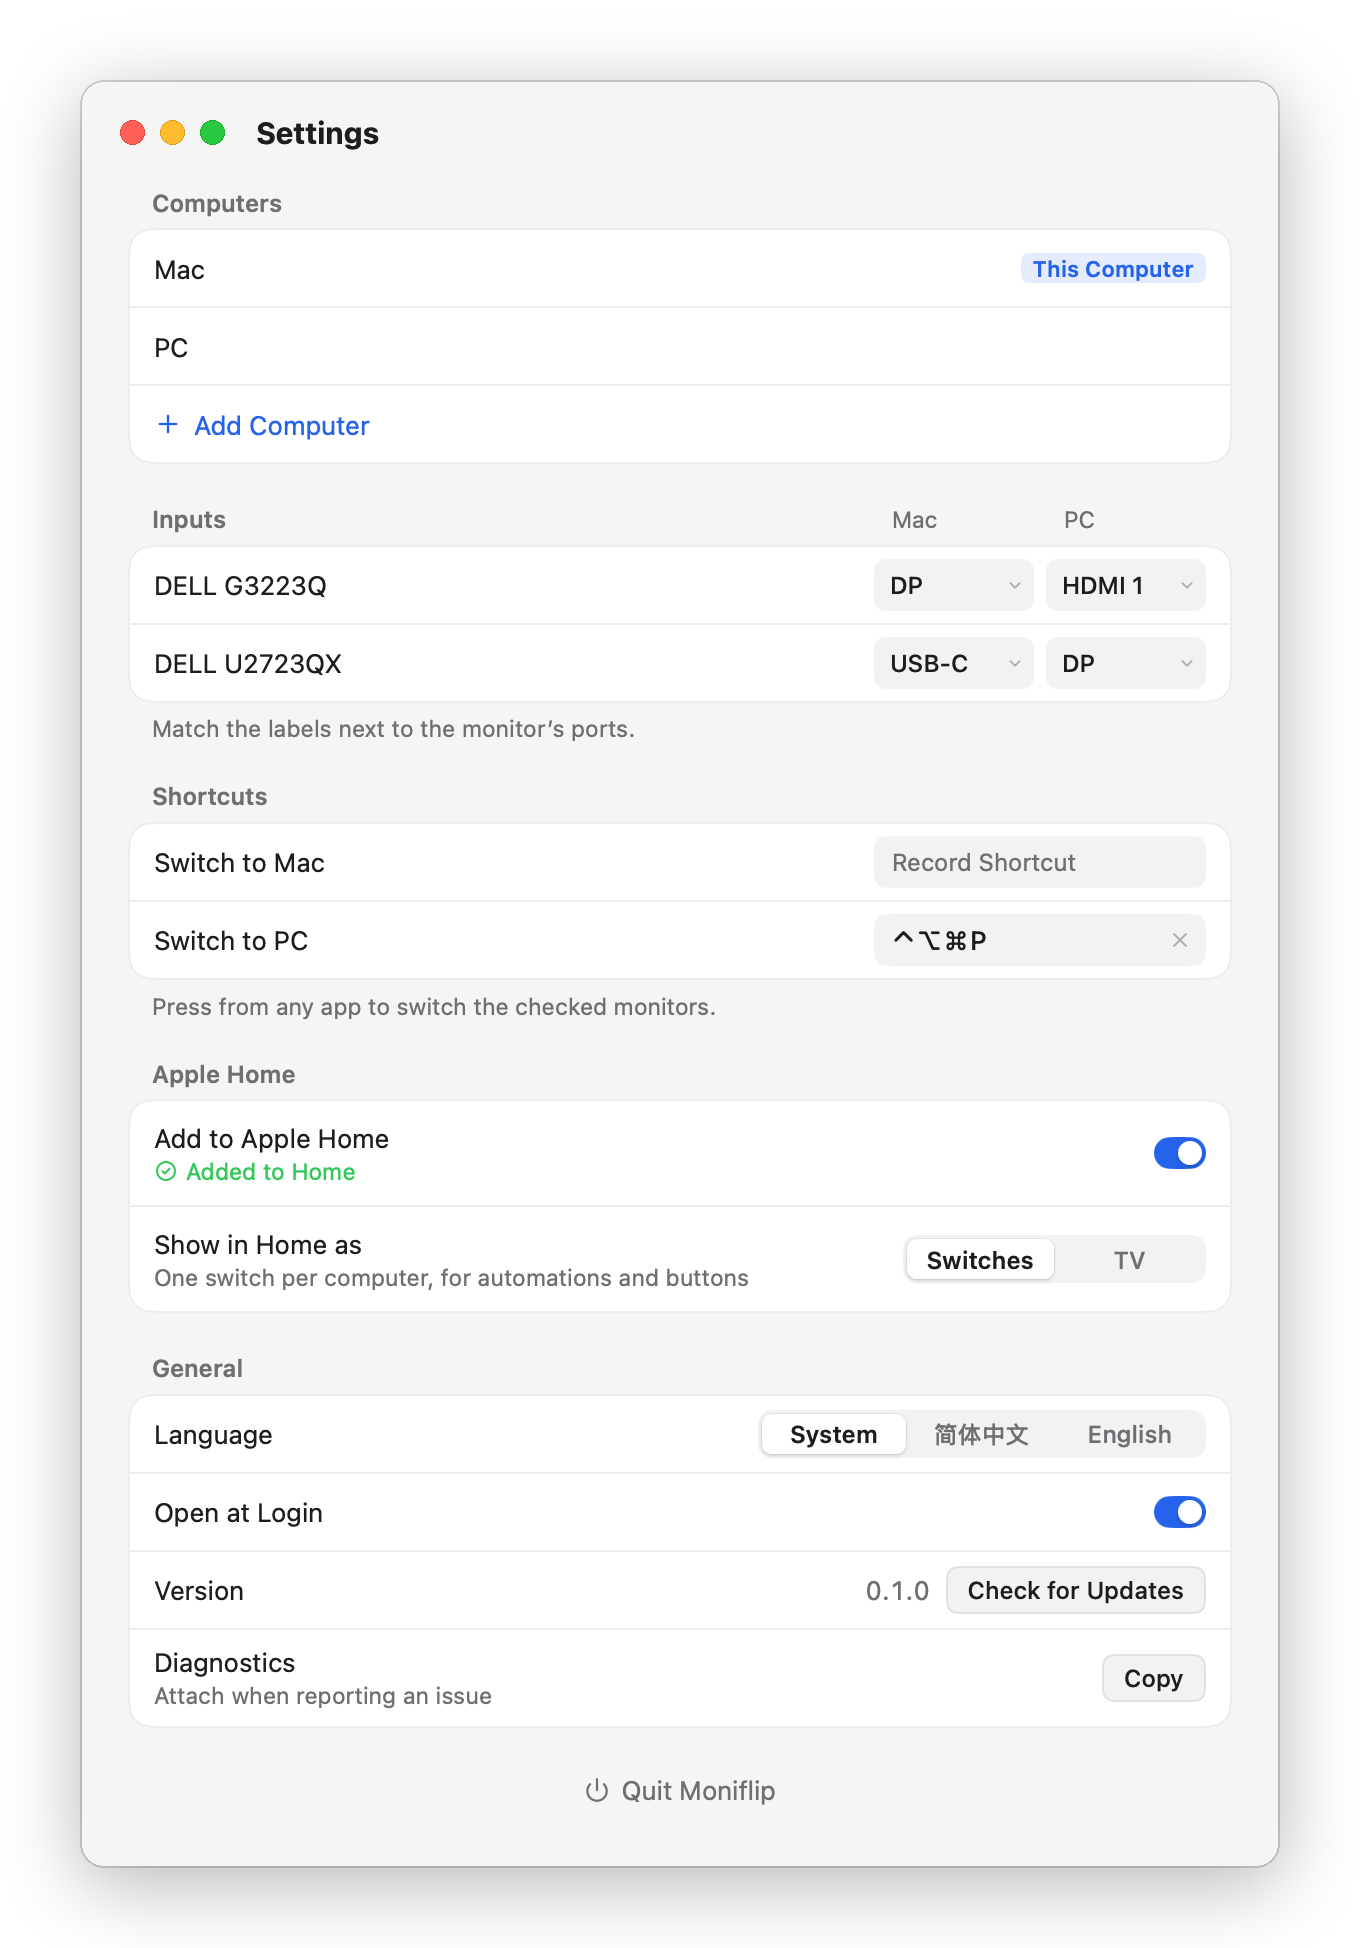
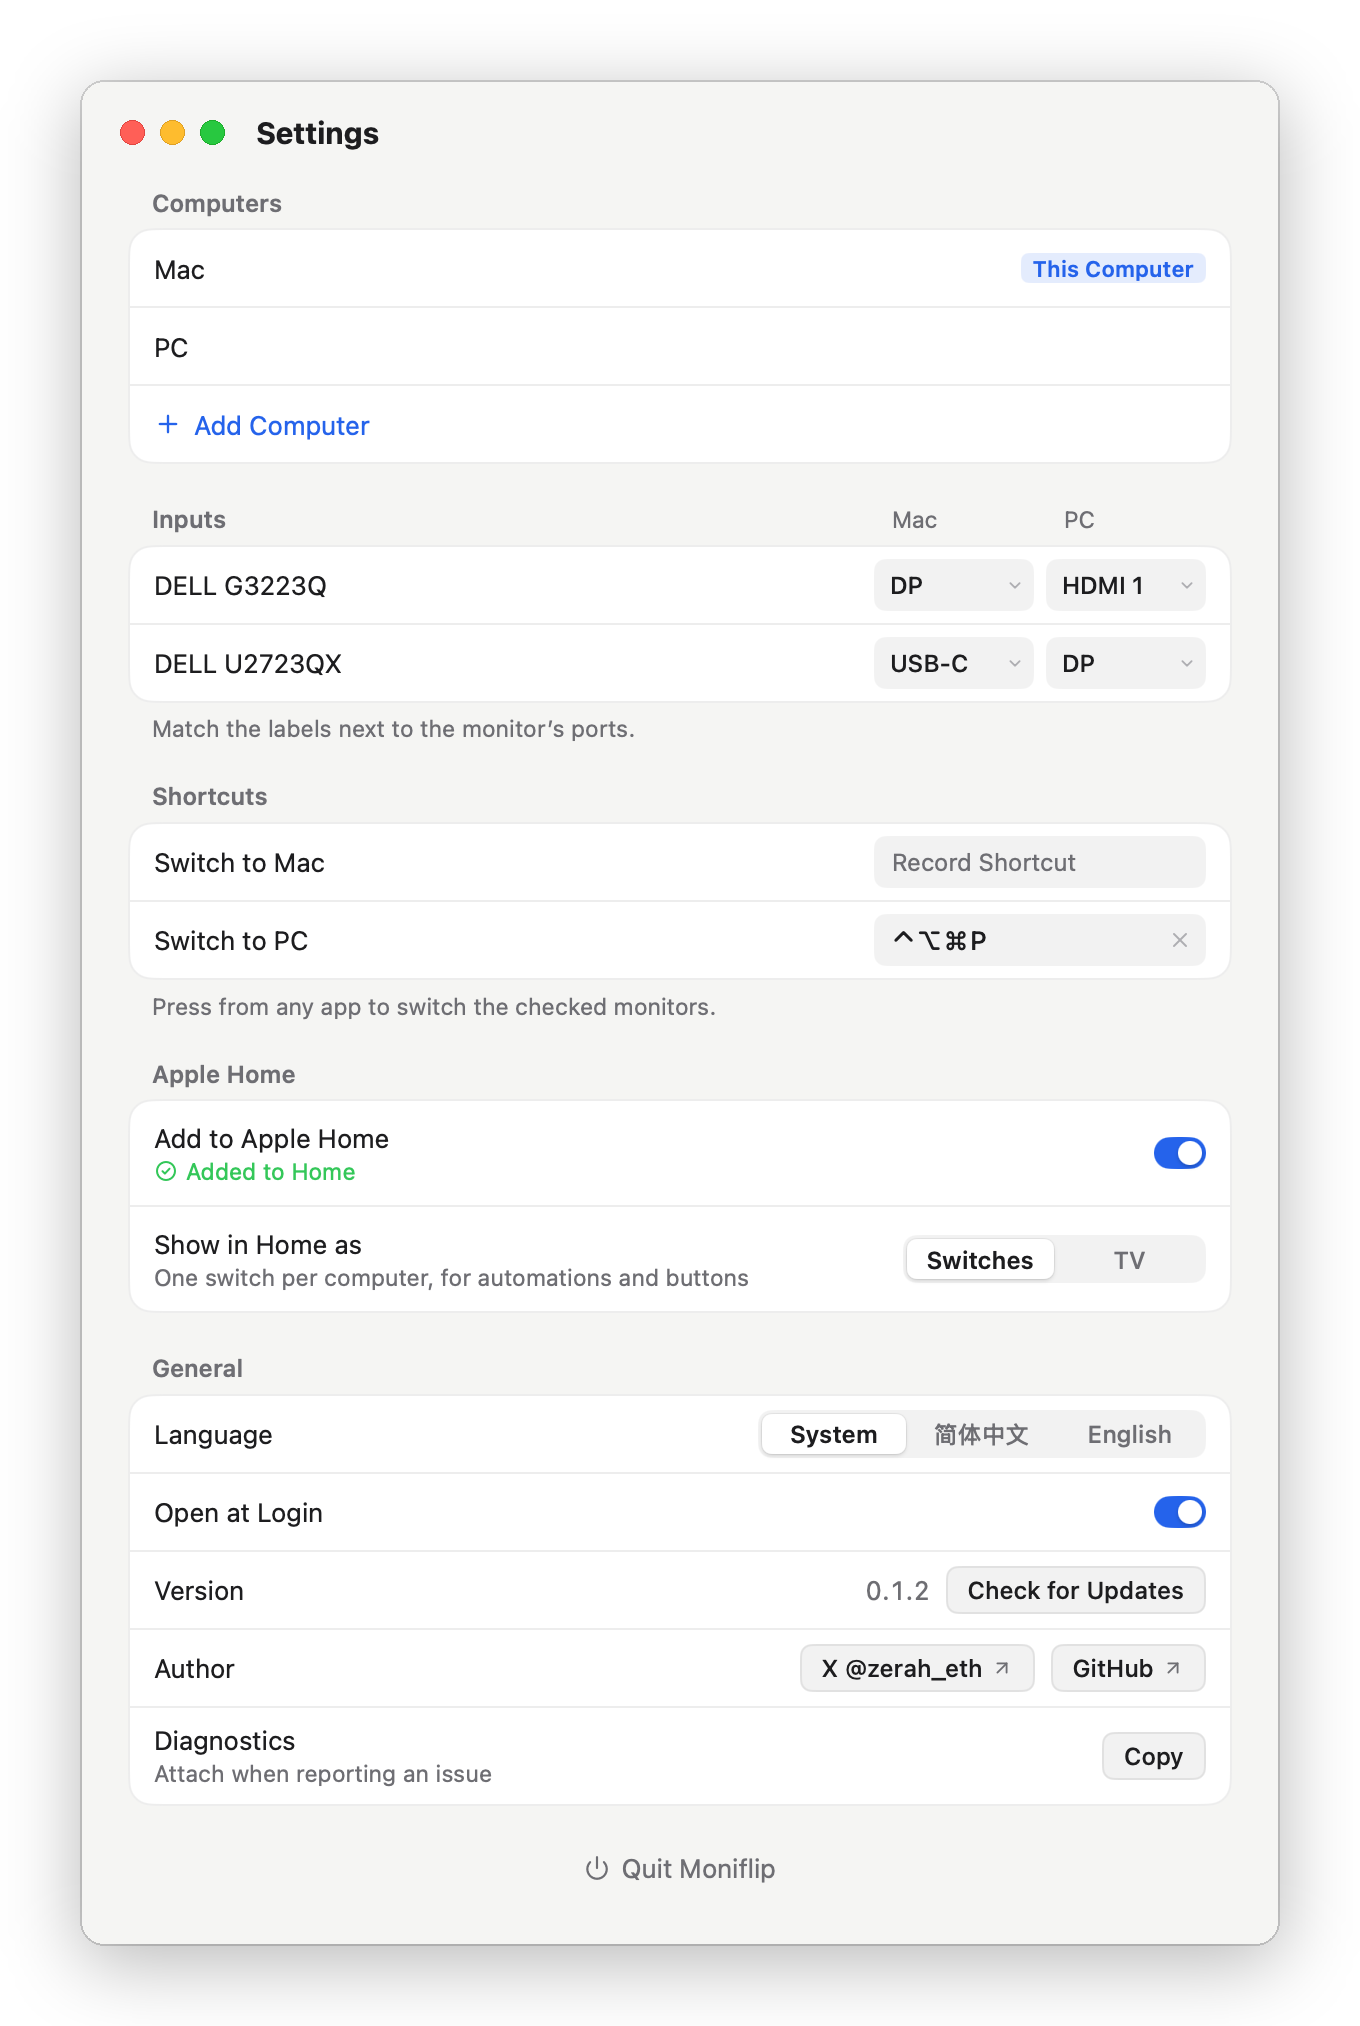
Moniflip 0.1.2: author links in Settings
Settings → General gets an Author row linking to @zerah_eth on X and to
the project on GitHub, opened in the browser.

diff --git a/settings.go b/settings.go
@@ -587,6 +587,11 @@ func (p *panel) generalSection(c *ui.Context, k palette) {
 				}
 			})
 		})
+		item(c.Key("author")).Children(func() {
+			ui.Text(c, tr("作者", "Author")).Grow(1)
+			p.link(c.Key("x"), k, "X @zerah_eth", "https://x.com/zerah_eth")
+			p.link(c.Key("github"), k, "GitHub", "https://github.com/qzz0518/Moniflip")
+		})
 		diag := item(c.Key("diag")).Height(48)
 		copied := ui.Local(diag, "copied", func() bool { return false })
 		diag.Children(func() {
@@ -664,6 +669,20 @@ func segments(c *ui.Context, k palette, sel *int, names []string, label string) 
 		}
 	})
 	return track.Changed()
+}
+
+// link 是设置行尾的外链小按钮，点了用浏览器打开 url。
+func (p *panel) link(c *ui.Context, k palette, text, url string) {
+	b := smallButton(c, k).Tooltip(url)
+	b.Children(func() {
+		ui.Text(c, text)
+		ui.Icon(c, iconLink).FontSize(11).TextColor(k.muted)
+	})
+	b.OnClick(func() {
+		if p.Open != nil {
+			p.Open(url)
+		}
+	})
 }
 
 // smallButton 是设置行尾的小按钮。

diff --git a/clickthrough_test.go b/clickthrough_test.go
@@ -27,6 +27,7 @@ func wire(p *panel) *[]string {
 	p.RemoveComputer = func(i int) { rec("RemoveComputer(%d)", i) }
 	p.CheckUpdate = func() { rec("CheckUpdate") }
 	p.CopyDiagnostics = func(done func()) { rec("CopyDiagnostics"); done() }
+	p.Open = func(url string) { rec("Open(%s)", url) }
 	p.Quit = func() { rec("Quit") }
 	return log
 }
@@ -190,6 +191,10 @@ func clickThrough(t *testing.T, wired bool) {
 	w.expect("SetLogin(true)")
 	w.click("检查更新")
 	w.expect("CheckUpdate")
+	w.click("X @zerah_eth")
+	w.expect("Open(https://x.com/zerah_eth)")
+	w.click("GitHub")
+	w.expect("Open(https://github.com/qzz0518/Moniflip)")
 	w.click("复制诊断信息")
 	w.expect("CopyDiagnostics")
 	if wired && !tt.HasText("已复制") {

diff --git a/view_test.go b/view_test.go
@@ -143,7 +143,7 @@ func TestEnglish(t *testing.T) {
 	expect(tt, "Settings", "Computers", "Add Computer", "This Computer")
 	tt.SetSize(width, 1200) // 下面几组滚在视口外，拉高一并检查
 	tt.Frame()
-	expect(tt, "Inputs", "Shortcuts", "Record Shortcut", "Add to Apple Home", "Show in Home as", "Switches", "TV", "Waiting to pair", "Language", "System", "English", "Open at Login", "Quit Moniflip")
+	expect(tt, "Inputs", "Shortcuts", "Record Shortcut", "Add to Apple Home", "Show in Home as", "Switches", "TV", "Waiting to pair", "Language", "System", "English", "Open at Login", "Author", "X @zerah_eth", "GitHub", "Quit Moniflip")
 }
 
 // 语言分段：点哪段就把对应的取值交给 SetLanguage。

diff --git a/icons.go b/icons.go
@@ -21,6 +21,7 @@ var (
 	iconDone    = icon(`<circle cx="12" cy="12" r="9"/><path d="m8.5 12.2 2.4 2.4 4.6-4.9"/>`)
 	iconHome    = icon(`<path d="M15 21v-8a1 1 0 0 0-1-1h-4a1 1 0 0 0-1 1v8"/><path d="M3 10a2 2 0 0 1 .709-1.528l7-5.999a2 2 0 0 1 2.582 0l7 5.999A2 2 0 0 1 21 10v9a2 2 0 0 1-2 2H5a2 2 0 0 1-2-2z"/>`)
 	iconPower   = icon(`<path d="M12 2v10"/><path d="M18.4 6.6a9 9 0 1 1-12.77.04"/>`)
+	iconLink    = icon(`<path d="M7 7h10v10"/><path d="M7 17 17 7"/>`)
 )
 
 var iconCheckBold = ui.MustParseSVG([]byte(`<svg xmlns="http://www.w3.org/2000/svg" viewBox="0 0 24 24" fill="none" stroke="currentColor" stroke-width="3.2" stroke-linecap="round" stroke-linejoin="round"><path d="M20 6 9 17l-5-5"/></svg>`))

diff --git a/main.go b/main.go
@@ -121,6 +121,11 @@ func (a *app) ready() {
 	a.p.RemoveComputer = func(i int) { a.edit(a.cfg.removeComputer(i)) }
 	a.p.CheckUpdate = updater.CheckForUpdates
 	a.p.CopyDiagnostics = a.copyDiagnostics
+	a.p.Open = func(url string) {
+		if err := mygo.Shell.OpenExternal(url); err != nil {
+			logf("open %s: %v", url, err)
+		}
+	}
 	a.p.OpenSettings = a.openSettings
 	a.p.Quit = mygo.App.Quit
 

diff --git a/panel.go b/panel.go
@@ -56,5 +56,6 @@ type panel struct {
 	CheckUpdate     func()
 	OpenSettings    func()            // 打开独立的设置窗口；为 nil 时（测试、设计稿）在面板里翻到设置页
 	CopyDiagnostics func(done func()) // 复制诊断信息到剪贴板（反馈兼容性问题用）
+	Open            func(url string)  // 用浏览器打开链接
 	Quit            func()
 }

diff --git a/CHANGELOG.md b/CHANGELOG.md
@@ -1,5 +1,15 @@
 # Changelog
 
+## 0.1.2
+
+### 中文
+
+- 设置 → 通用 里加上作者的 X（@zerah_eth）和项目的 GitHub 链接。
+
+### English
+
+- Settings → General now links to the author on X (@zerah_eth) and to the project on GitHub.
+
 ## 0.1.1
 
 ### 中文
